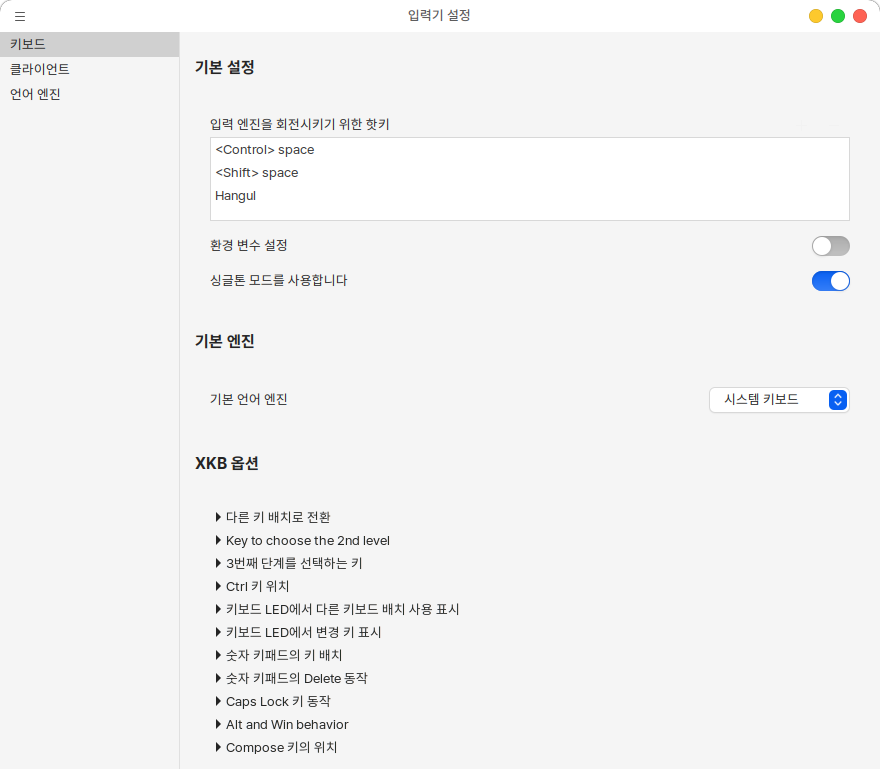
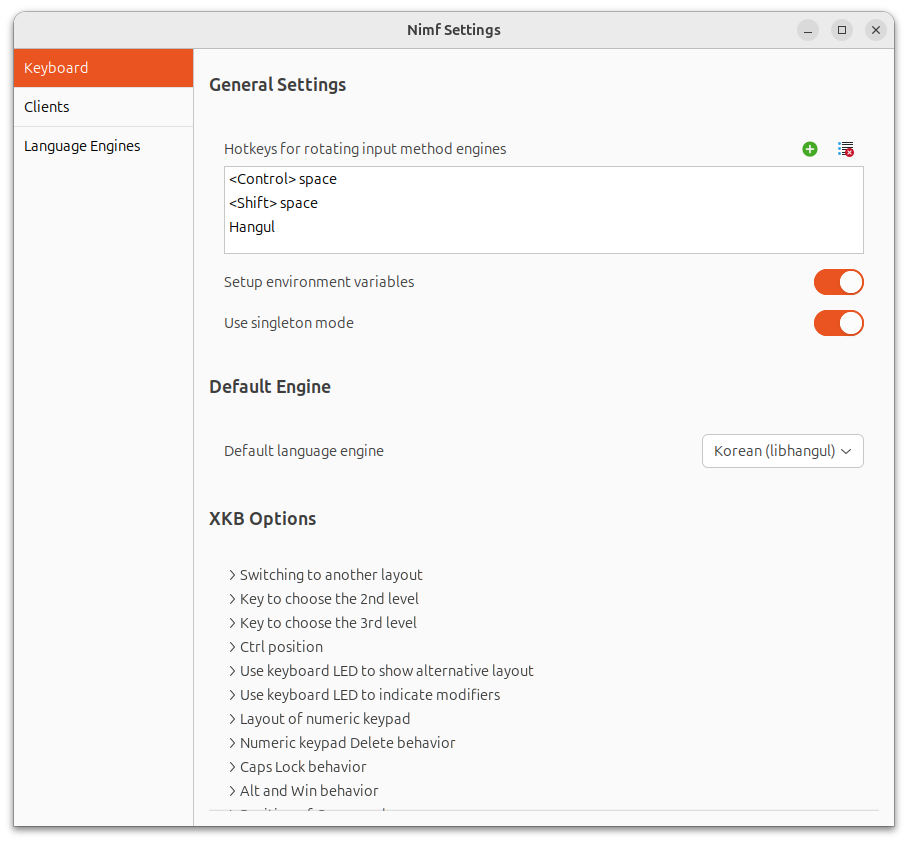
fix: update nimf image reference and minor README adjustments for clarity

diff --git a/README-ko.md b/README-ko.md
@@ -21,7 +21,7 @@
 
 하모니카 개발팀은 개방형 OS 배포에 필수적인 한글 입력기에 대한 관리가 필요하다고 생각하며 앞으로 하모니카 팀에서 직접 nimf 프로젝트를 계속 관리합니다.
 
-![nimf](docs/nimf.png)
+![nimf](docs/nimf-ko.png)
 
 ## 📋 목차
 
@@ -46,7 +46,7 @@ Nimf는 가볍고 빠르며 확장 가능한 입력기 프레임워크입니다.
 
 ## 🆕 1.3.10의 주요 변경사항
 
-- **GTK4 완전 지원** (GTK2/GTK3/GTK4 동시 환경 지원)
+- **GTK4 지원** (GTK2/GTK3/GTK4 동시 환경 지원)
 - **데비안 패키지 분리**:
   - `nimf`: 코어 + 한글(libhangul), 일본어(anthy), 중국어(rime)
   - `nimf-i18n`: 다국어 엔진(m17n) 추가 패키지
